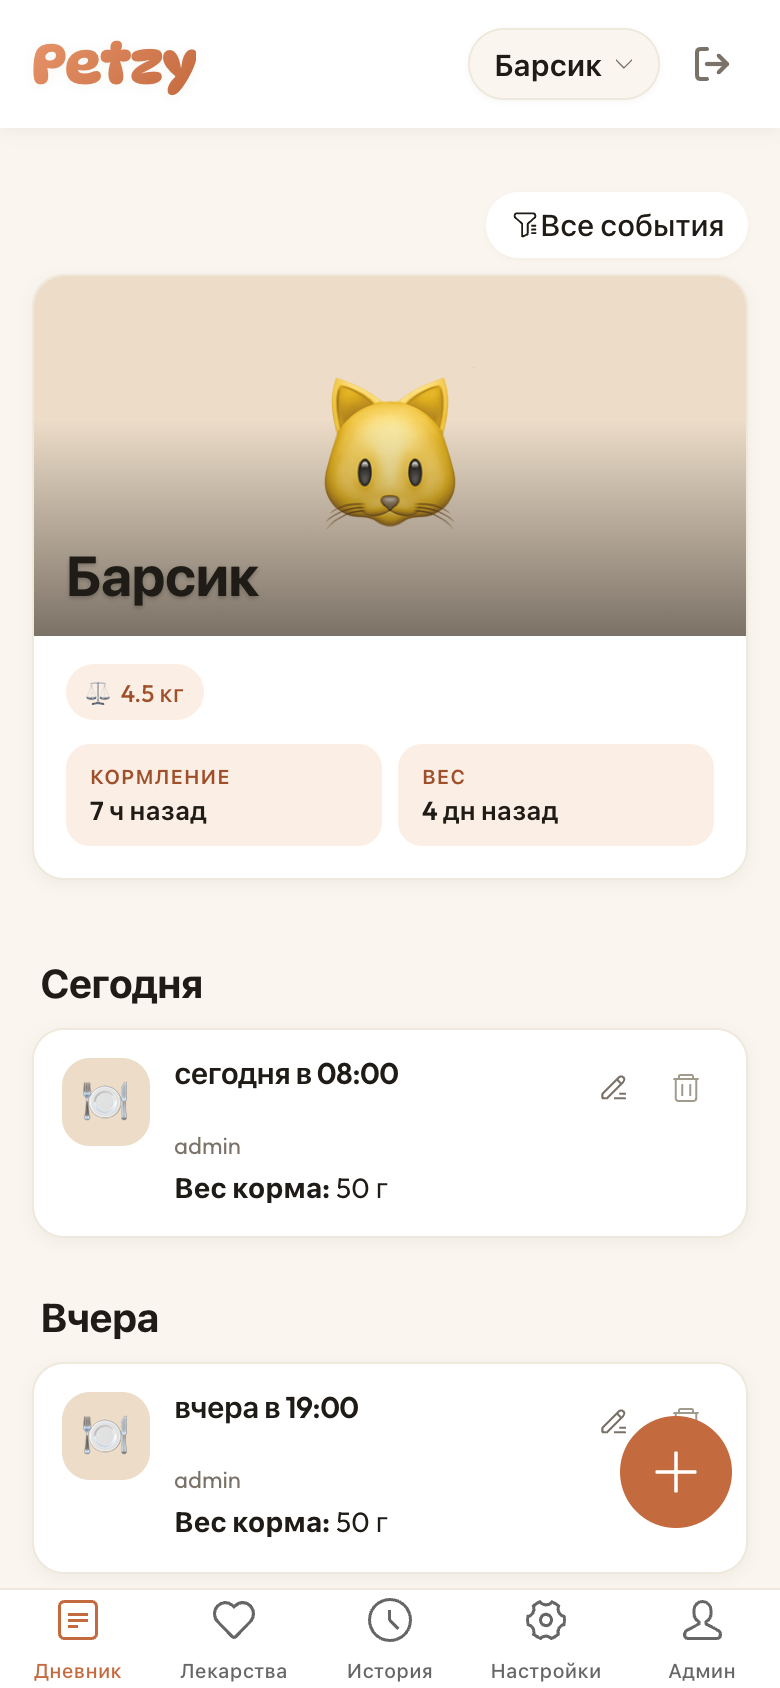
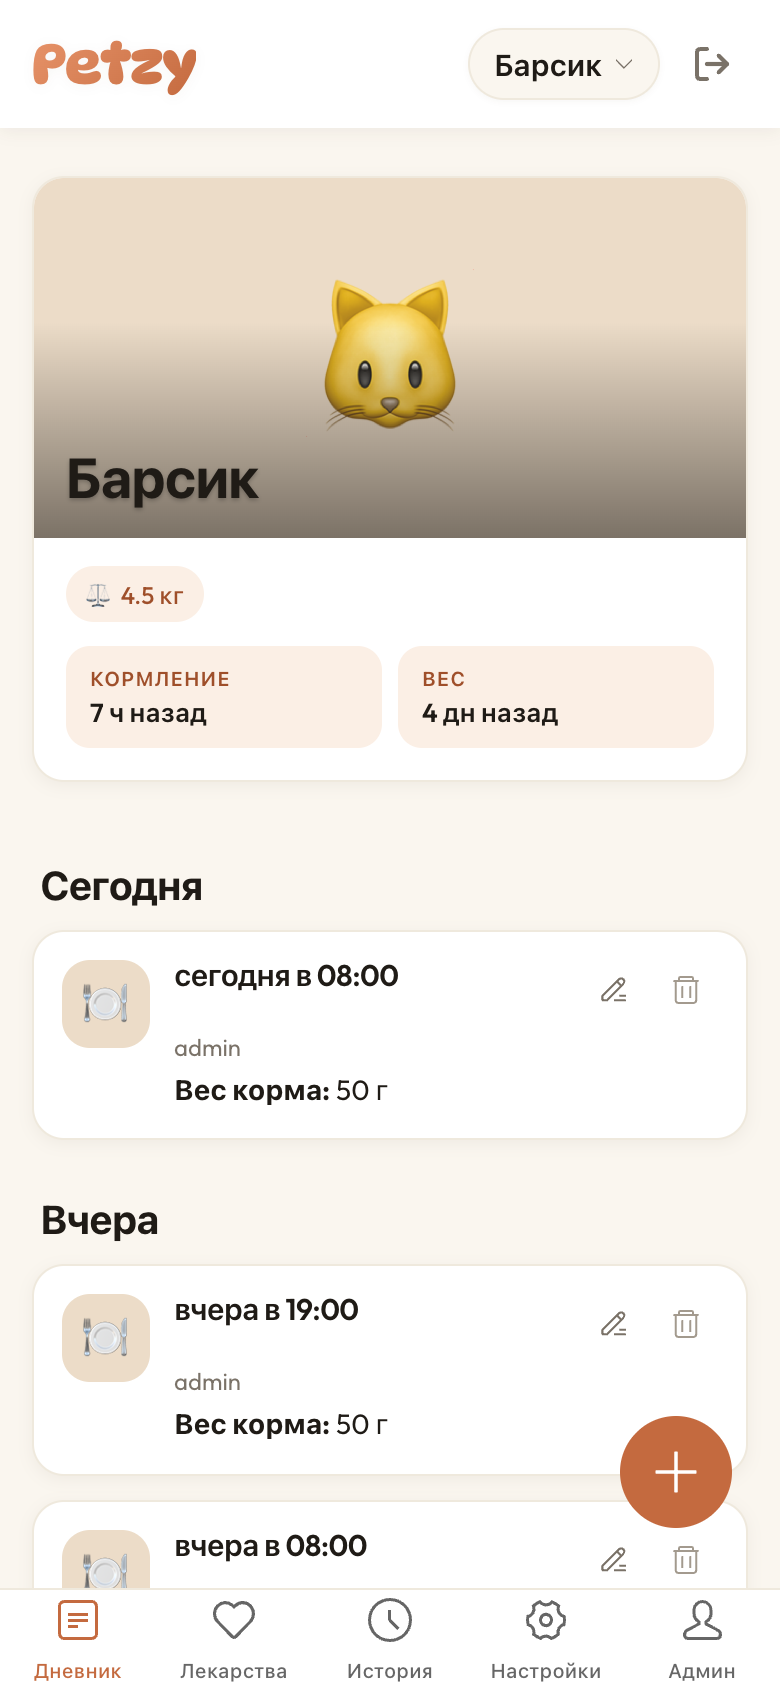
refactor(ui): drop timeline filter — show all events chronologically
The 'Все события / <тип>' pill button on the dashboard was dead
weight: the timeline was already short, the per-type icons in
HistoryItem let users scan by category visually, and the filter
forced an extra tap before seeing anything.

- Remove filter state, filterActions, and the filter ActionSheet
- Hardcode timeline filter to 'all' in the query
- Drop usePetTilesSettings + visibleTiles from Dashboard (they only
  existed to populate the filter)
- Remove the top-right filter pill block

The backend still supports filtering for any future use (history page
or per-type deep-links), but the Dashboard surfaces everything.

diff --git a/frontend/src/pages/Dashboard.tsx b/frontend/src/pages/Dashboard.tsx
@@ -2,11 +2,10 @@ import { useState, useMemo } from 'react';
 import { createPortal } from 'react-dom';
 import { useNavigate } from 'react-router-dom';
 import { useInfiniteQuery } from '@tanstack/react-query';
-import { ActionSheet, Button, FloatingBubble } from 'antd-mobile';
-import { AddOutline, FilterOutline } from 'antd-mobile-icons';
-import { tilesConfig } from '../utils/tilesConfig';
+import { Button, FloatingBubble } from 'antd-mobile';
+import { AddOutline } from 'antd-mobile-icons';
+
 import { historyConfig } from '../utils/historyConfig';
-import { usePetTilesSettings } from '../hooks/usePetTilesSettings';
 import { usePet } from '../hooks/usePet';
 import { hapticFeedback } from '../utils/haptic';
 import { healthRecordsService } from '../services/healthRecords.service';
@@ -18,12 +17,9 @@ import { QuickAddSheet } from '../components/QuickAddSheet';
 
 export function Dashboard() {
   const navigate = useNavigate();
-  const { selectedPetId, selectedPetName, getSelectedPet } = usePet();
-  const { tilesSettings } = usePetTilesSettings(selectedPetId);
+  const { selectedPetId, getSelectedPet } = usePet();
 
   const [actionSheetVisible, setActionSheetVisible] = useState(false);
-  const [filterSheetVisible, setFilterSheetVisible] = useState(false);
-  const [filter, setFilter] = useState<string>('all');
 
   const pageSize = 20;
 
@@ -35,14 +31,15 @@ export function Dashboard() {
     isLoading,
     error
   } = useInfiniteQuery({
-    queryKey: ['timeline', selectedPetId, filter],
+    queryKey: ['timeline', selectedPetId],
     queryFn: async ({ pageParam = 1 }) => {
       if (!selectedPetId) return { items: [], page: 1, total: 0, hasMore: false };
       const response = await healthRecordsService.getTimeline(
         selectedPetId,
         pageParam as number,
         pageSize,
-        filter
+        // No filtering — the timeline shows every event in chronological order.
+        'all'
       );
       return {
         items: response.items || [],
@@ -55,32 +52,6 @@ export function Dashboard() {
     initialPageParam: 1,
     enabled: !!selectedPetId
   });
-
-  const visibleTiles = useMemo(() => tilesConfig
-    .filter(tile => tile.isTile !== false && tilesSettings.visible[tile.id] !== false)
-    .sort((a, b) => {
-      const aI = tilesSettings.order.indexOf(a.id);
-      const bI = tilesSettings.order.indexOf(b.id);
-      return (aI === -1 ? 999 : aI) - (bI === -1 ? 999 : bI);
-    }), [tilesSettings]);
-
-  const filterActions = useMemo(() => [
-    {
-      text: 'Все события',
-      key: 'all',
-      onClick: () => { hapticFeedback('light'); setFilter('all'); }
-    },
-    ...visibleTiles.map(tile => ({
-      text: tile.title,
-      key: tile.id,
-      onClick: () => { hapticFeedback('light'); setFilter(tile.id); }
-    }))
-  ], [visibleTiles]);
-
-  const currentFilterTitle =
-    filter === 'all'
-      ? 'Все события'
-      : visibleTiles.find(t => t.id === filter)?.title ?? 'Все события';
 
   const allItems = data?.pages.flatMap(page => page.items) ?? [];
 
@@ -96,20 +67,18 @@ export function Dashboard() {
   const formatDateHeader = (dateStr: string) => {
     const parts = dateStr.split('-');
     if (parts.length !== 3) return dateStr;
-    
-    // Check if it's today or yesterday
+
     const today = new Date();
     const yesterday = new Date(today);
     yesterday.setDate(today.getDate() - 1);
-    
-    // Format to YYYY-MM-DD for comparison (handling timezone offsets roughly)
+
     const pad = (n: number) => n.toString().padStart(2, '0');
     const todayStr = `${today.getFullYear()}-${pad(today.getMonth() + 1)}-${pad(today.getDate())}`;
     const yesterdayStr = `${yesterday.getFullYear()}-${pad(yesterday.getMonth() + 1)}-${pad(yesterday.getDate())}`;
 
     if (dateStr === todayStr) return 'Сегодня';
     if (dateStr === yesterdayStr) return 'Вчера';
-    
+
     return `${parts[2]}.${parts[1]}.${parts[0]}`;
   };
 
@@ -118,39 +87,6 @@ export function Dashboard() {
       {/* ─── Main scrollable content ─── */}
       <div className="page-container" style={{ paddingBottom: '80px' }}>
         <div className="max-width-container">
-
-          {/* Filter button — pet name lives on the hero card, no duplicate header */}
-          <div
-            className="safe-area-padding"
-            style={{
-              marginBottom: 'var(--spacing-sm)',
-              display: 'flex',
-              justifyContent: 'flex-end',
-              alignItems: 'center',
-              minHeight: '40px',
-              paddingTop: 'var(--spacing-sm)'
-            }}
-          >
-            <Button
-              size="small"
-              fill="none"
-              onClick={() => setFilterSheetVisible(true)}
-              style={{
-                display: 'flex',
-                alignItems: 'center',
-                gap: '4px',
-                padding: '6px 12px',
-                backgroundColor: 'var(--app-card-background)',
-                borderRadius: '999px',
-                boxShadow: 'var(--app-shadow-light)',
-                color: 'var(--app-text-primary)',
-                fontWeight: 500,
-              }}
-            >
-              <FilterOutline />
-              {currentFilterTitle}
-            </Button>
-          </div>
 
           {/* Timeline Content */}
           <div className="safe-area-padding" style={{ display: 'flex', flexDirection: 'column', gap: '8px' }}>
@@ -275,15 +211,6 @@ export function Dashboard() {
       <QuickAddSheet
         visible={actionSheetVisible}
         onClose={() => setActionSheetVisible(false)}
-      />
-
-      {/* Filter ActionSheet */}
-      <ActionSheet
-        visible={filterSheetVisible}
-        actions={filterActions}
-        onClose={() => setFilterSheetVisible(false)}
-        closeOnAction
-        cancelText="Отмена"
       />
     </>
   );
